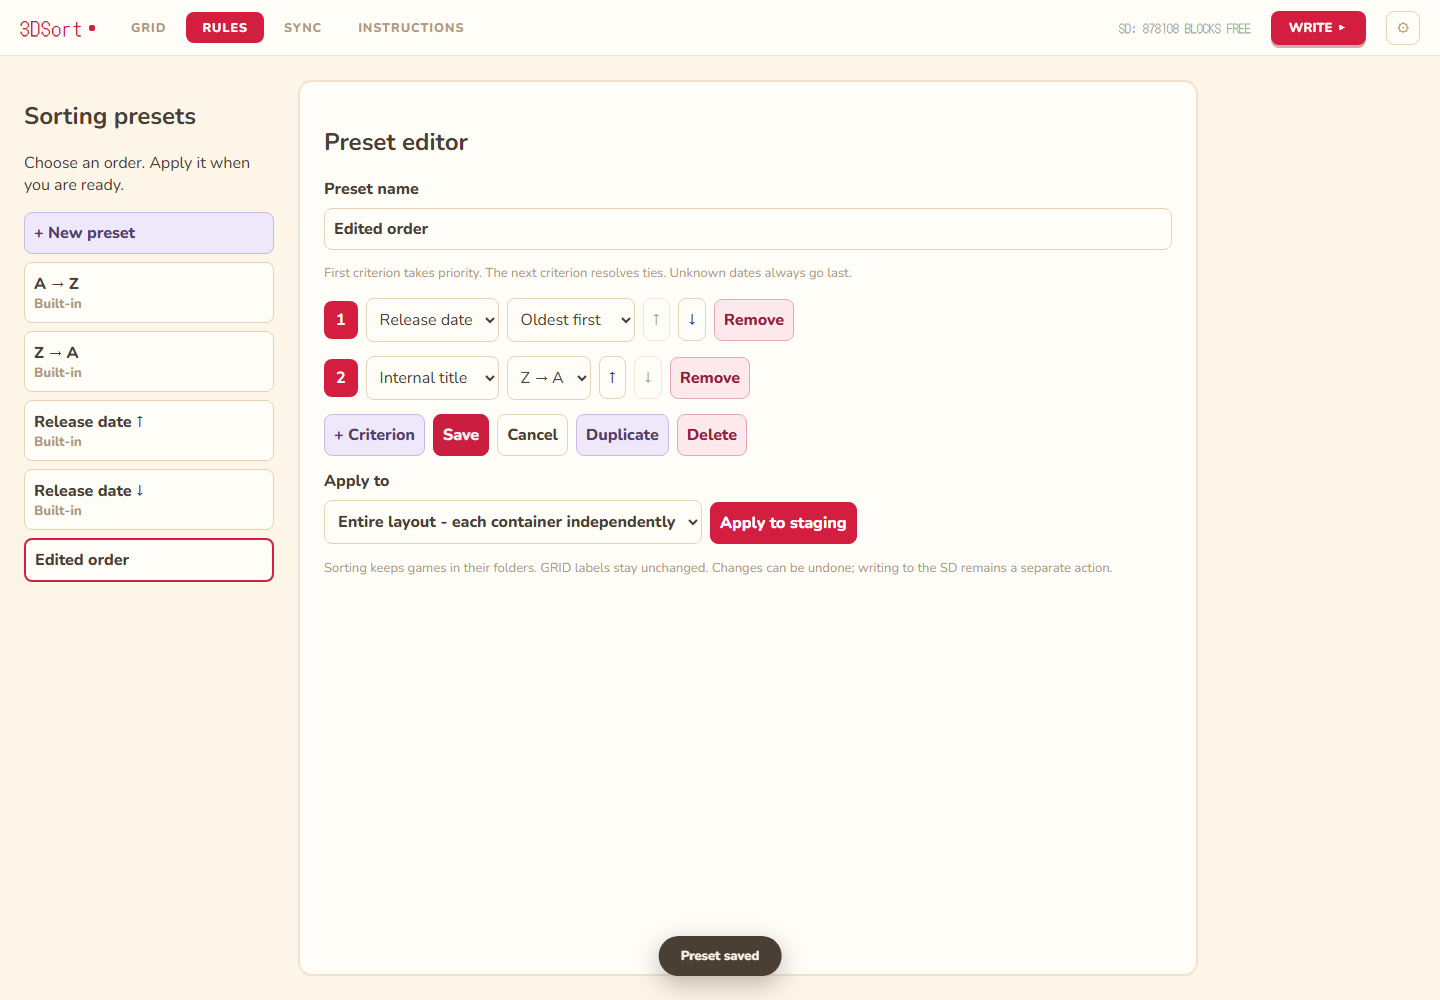
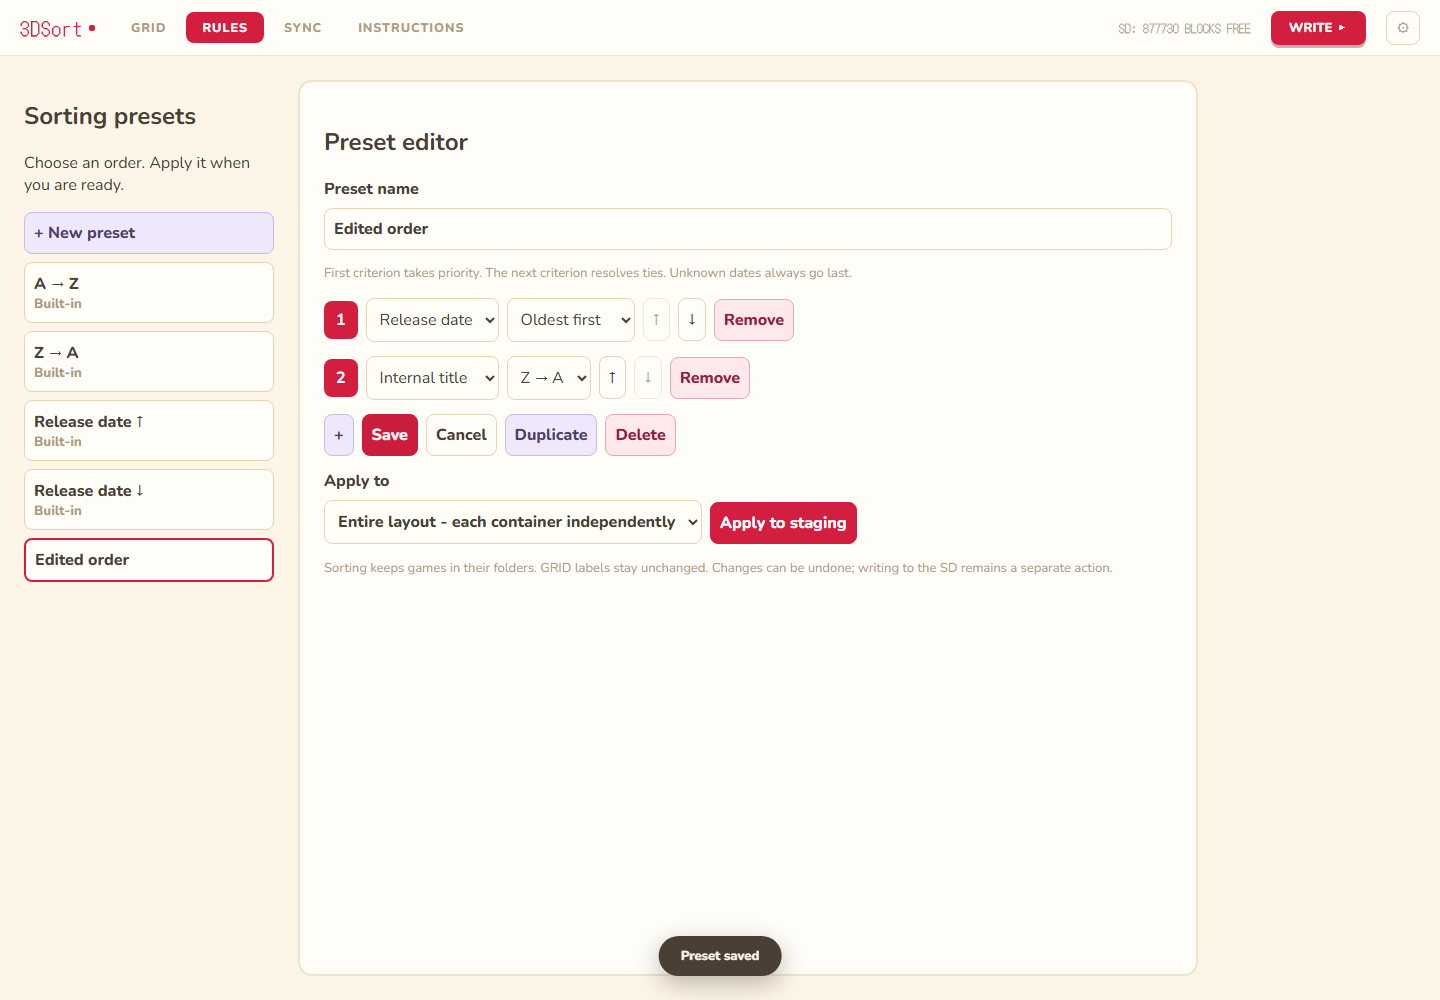
UI: shorten add criterion button label

Changed region(s): [[0.25, 0.403, 0.5, 0.465]]

diff --git a/ui/app.js b/ui/app.js
@@ -449,7 +449,7 @@ function rulesScreen() {
       <select aria-label="Criterion ${i + 1}" data-criterion="${i}" ${locked ? 'disabled' : ''}>${Object.entries(criterionLabels).map(([key,label]) => `<option value="${key}" ${key === c.field ? 'selected' : ''}>${label}</option>`).join('')}</select>
       <select aria-label="Direction ${i + 1}" data-direction="${i}" ${locked ? 'disabled' : ''}><option value="asc" ${c.direction === 'asc' ? 'selected' : ''}>${c.field === 'release_date' ? 'Oldest first' : 'A \u2192 Z'}</option><option value="desc" ${c.direction === 'desc' ? 'selected' : ''}>${c.field === 'release_date' ? 'Newest first' : 'Z \u2192 A'}</option></select>
       ${locked ? '' : `<button data-rule-up="${i}" aria-label="Move criterion ${i + 1} up" ${i === 0 ? 'disabled' : ''}>&#8593;</button><button data-rule-down="${i}" aria-label="Move criterion ${i + 1} down" ${i === d.criteria.length - 1 ? 'disabled' : ''}>&#8595;</button><button data-rule-remove="${i}" aria-label="Remove criterion ${i + 1}">Remove</button>`}</div>`).join('')}</div>
-    <div class="rules-actions">${locked ? '' : `<button id="addSortCriterion" ${d.criteria.length >= 3 ? 'disabled' : ''}>+ Criterion</button><button id="saveSortPreset">Save</button><button id="cancelSortPreset">Cancel</button>`}<button id="duplicateSortPreset">Duplicate</button>${d.id && !locked ? '<button id="deleteSortPreset">Delete</button>' : ''}</div>
+    <div class="rules-actions">${locked ? '' : `<button id="addSortCriterion" aria-label="Add criterion" title="Add criterion" ${d.criteria.length >= 3 ? 'disabled' : ''}>+</button><button id="saveSortPreset">Save</button><button id="cancelSortPreset">Cancel</button>`}<button id="duplicateSortPreset">Duplicate</button>${d.id && !locked ? '<button id="deleteSortPreset">Delete</button>' : ''}</div>
     <p role="alert" id="sortPresetError">${esc(ruleError)}</p>
     <div class="rules-apply"><label>Apply to<select id="sortPresetScope"><option value="">Entire layout - each container independently</option>${Object.entries(S.folderNames).map(([id,name]) => `<option value="${id}" ${ruleScope === id ? 'selected' : ''}>Folder: ${esc(name)}</option>`).join('')}</select></label><button id="applySortPreset" ${!d.id || rulesDirty() ? 'disabled' : ''}>Apply to staging</button></div>
     <p>Sorting keeps games in their folders. GRID labels stay unchanged. Changes can be undone; writing to the SD remains a separate action.</p>` : '<p>Create a preset or select one from the library.</p>'}
